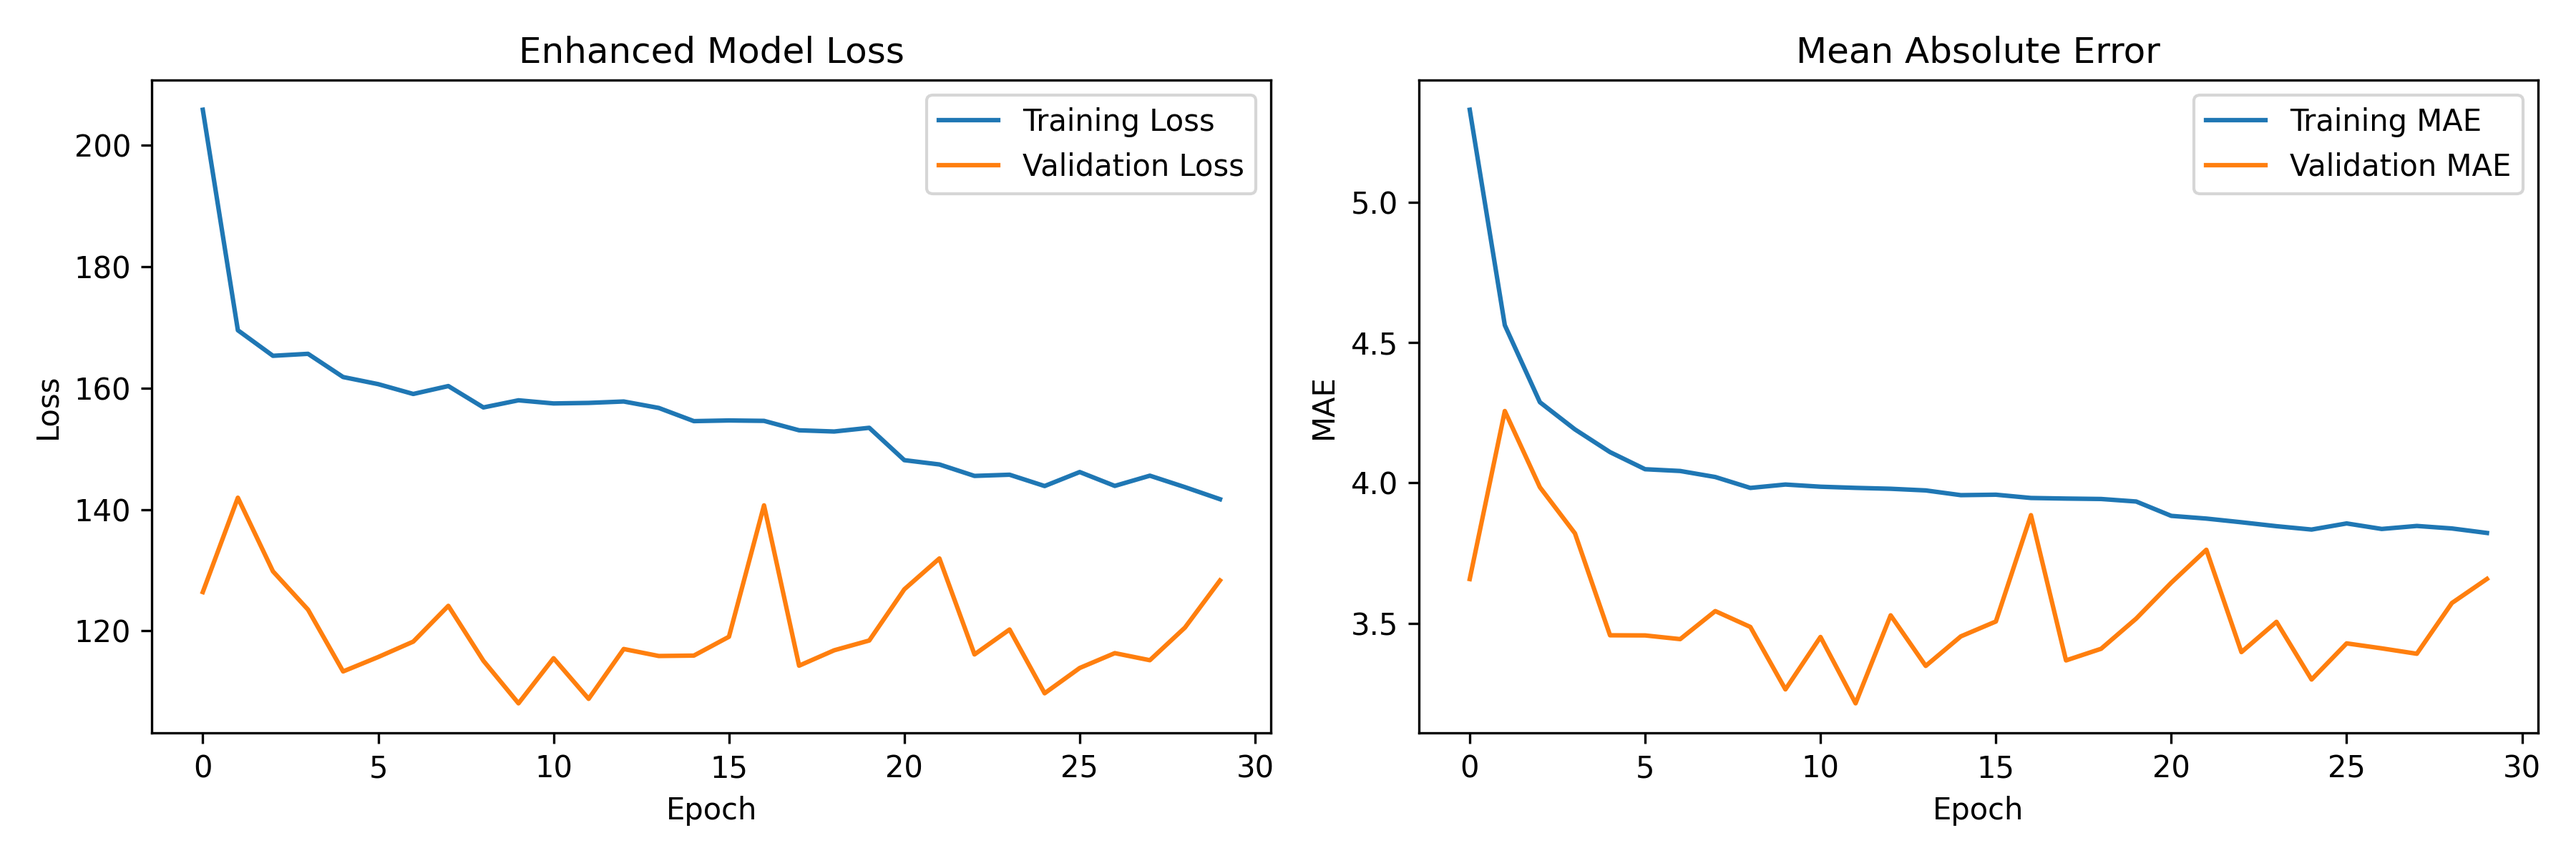
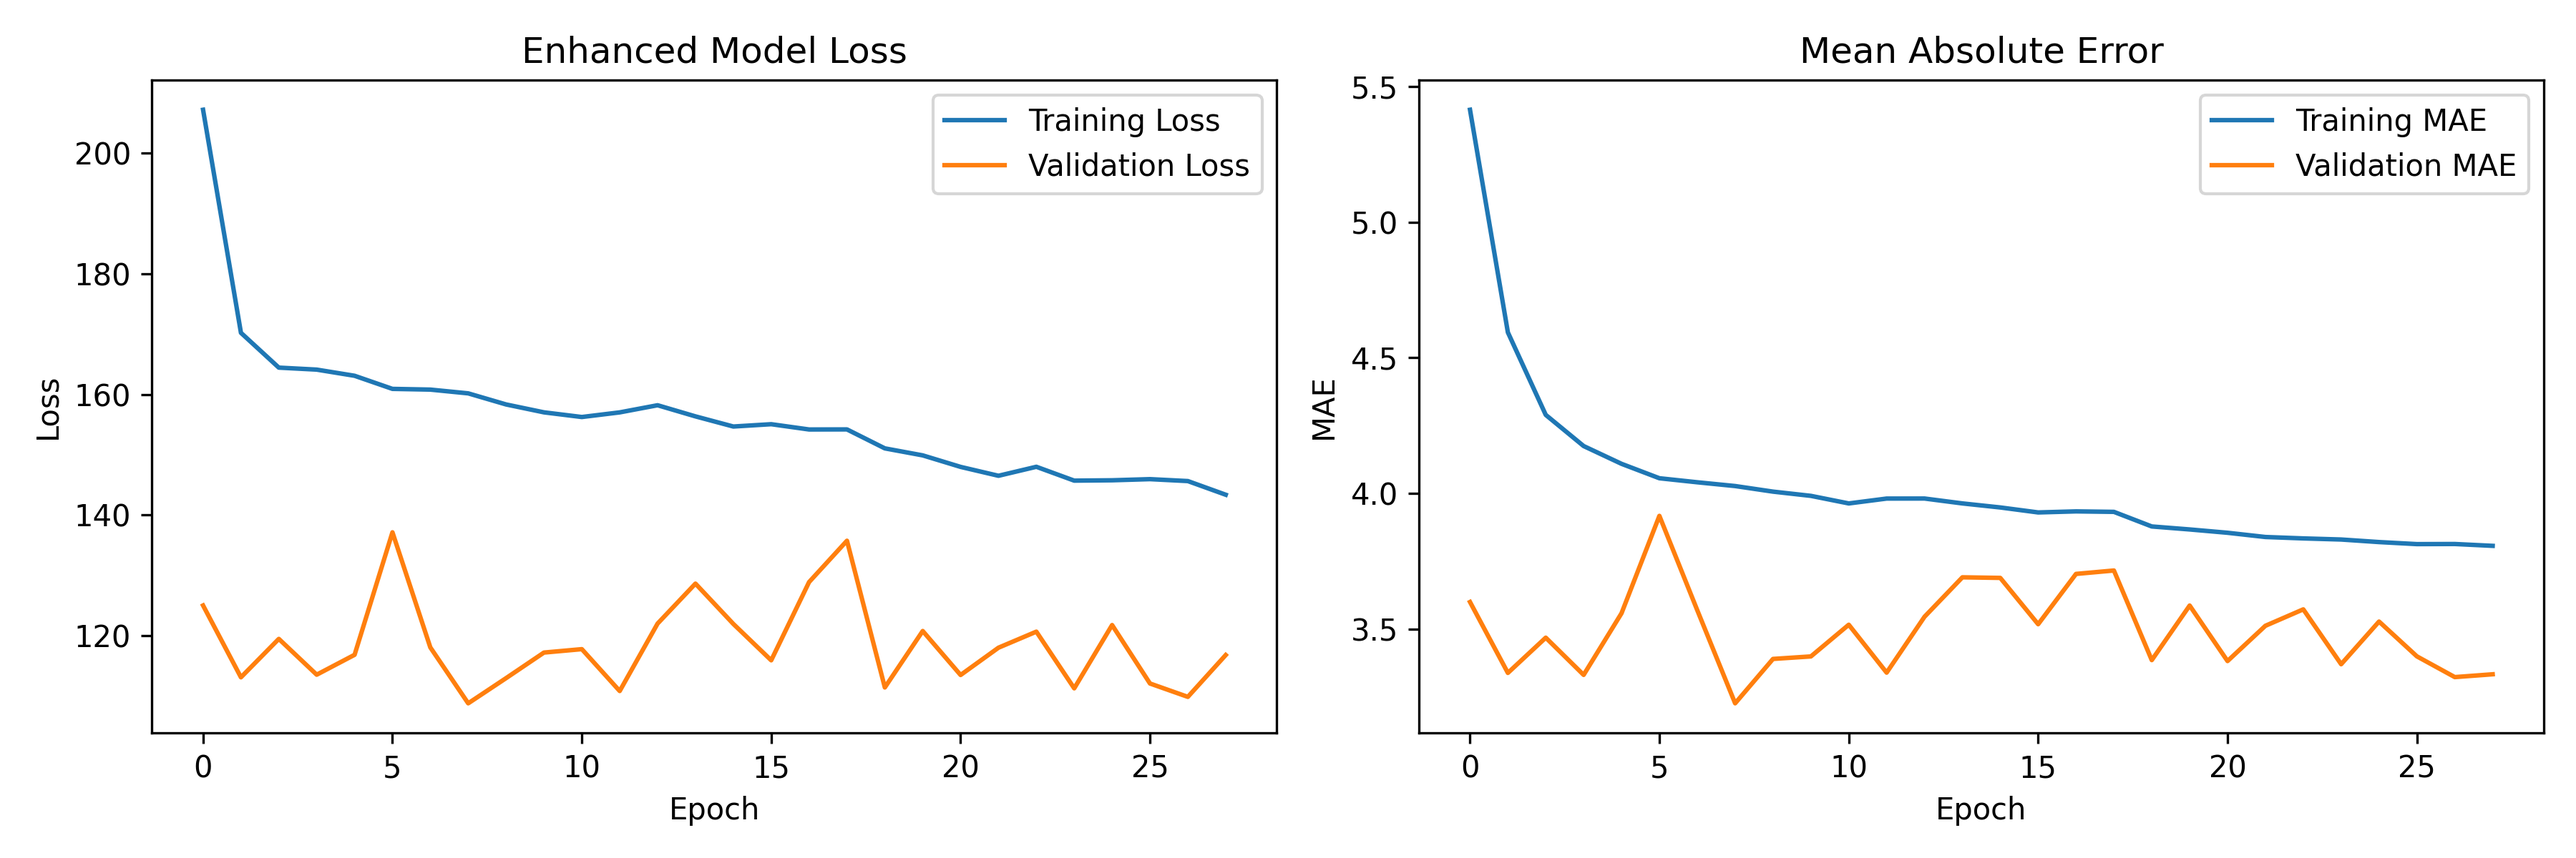
updates

diff --git a/billb/largep/model.py b/billb/largep/model.py
@@ -23,8 +23,17 @@ from injuries import integrate_sportradar_injuries
 # Suppress warnings
 warnings.filterwarnings('ignore')
 
-# Set up logging
-logging.basicConfig(level=logging.INFO, format='%(asctime)s - %(levelname)s - %(message)s')
+# Set up logging with both file and console output
+logging.basicConfig(
+    level=logging.INFO,
+    format='%(asctime)s - %(levelname)s - %(message)s',
+    handlers=[
+        logging.FileHandler('model_debug.log', mode='w'),  # Write to file
+        logging.StreamHandler()  # Also print to console
+    ]
+)
+
+logger = logging.getLogger(__name__)
 
 # Load the enhanced data
 logging.info("Loading enhanced data from CSV...")
@@ -738,21 +747,71 @@ class EnhancedDepthChartAnalyzer:
         return False
 
 # ===== INJURY STATUS ANALYZER WITH SPORTRADAR DATA =====
-
 class InjuryStatusAnalyzer:
     """Analyze player injury status using Sportradar API data"""
     
     def __init__(self, injury_overrides, backup_situations):
         self.injury_overrides = injury_overrides
         self.backup_situations = backup_situations
+        # Create normalized name lookups
+        self._create_normalized_lookups()
+    
+    def _create_normalized_lookups(self):
+        """Create normalized name lookups for better matching"""
+        self.injury_by_normalized = {}
+        for name, info in self.injury_overrides.items():
+            normalized = self._normalize_name(name)
+            self.injury_by_normalized[normalized] = (name, info)
+        
+        self.backup_by_normalized = {}
+        for name, info in self.backup_situations.items():
+            normalized = self._normalize_name(name)
+            self.backup_by_normalized[normalized] = (name, info)
+    
+    def _normalize_name(self, name):
+        """Normalize a name for comparison"""
+        if not name:
+            return ""
+        # Remove suffixes, convert to lowercase, remove extra spaces
+        name_clean = name.lower().strip()
+        # Remove common suffixes
+        for suffix in [' jr.', ' sr.', ' iii', ' ii', ' iv', ' jr', ' sr']:
+            name_clean = name_clean.replace(suffix, '')
+        return ' '.join(name_clean.split())
     
     def check_player_status(self, player_name):
-        """Check if player has injury/status issues"""
+        """Check if player has injury/status issues with fuzzy matching"""
+        # Direct match first
         if player_name in self.injury_overrides:
             return self.injury_overrides[player_name]
         
         if player_name in self.backup_situations:
             return self.backup_situations[player_name]
+        
+        # Try normalized matching
+        normalized = self._normalize_name(player_name)
+        
+        if normalized in self.injury_by_normalized:
+            original_name, info = self.injury_by_normalized[normalized]
+            return info
+        
+        if normalized in self.backup_by_normalized:
+            original_name, info = self.backup_by_normalized[normalized]
+            return info
+        
+        # Try partial matching on last name
+        last_name = normalized.split()[-1] if normalized else ""
+        if last_name and len(last_name) > 3:
+            for norm_key, (orig_name, info) in self.injury_by_normalized.items():
+                if norm_key.endswith(last_name):
+                    # Check first initial matches
+                    if normalized[0] == norm_key[0]:
+                        return info
+            
+            for norm_key, (orig_name, info) in self.backup_by_normalized.items():
+                if norm_key.endswith(last_name):
+                    if normalized[0] == norm_key[0]:
+                        return info
         
         return None
     
@@ -765,7 +824,17 @@ class InjuryStatusAnalyzer:
     
     def should_boost_backup(self, player_name):
         """Determine if backup should get starter-level projections"""
-        return player_name in self.backup_situations
+        status_info = self.check_player_status(player_name)
+        # Check if this player is in backup_situations
+        if player_name in self.backup_situations:
+            return True
+        
+        # Try normalized matching
+        normalized = self._normalize_name(player_name)
+        if normalized in self.backup_by_normalized:
+            return True
+        
+        return False
     
     def get_adjustment_info(self, player_name):
         """Get detailed adjustment information"""
@@ -788,10 +857,33 @@ class InjuryStatusAnalyzer:
             }
         
         return None
-
+    
 # Initialize the injury analyzer with Sportradar data
-print("\n=== INITIALIZING INJURY STATUS ANALYZER ===")
+logger.info("\n=== INITIALIZING INJURY STATUS ANALYZER ===")
 injury_analyzer = InjuryStatusAnalyzer(injury_overrides, backup_situations)
+
+# DEBUG: Verify George Kittle
+logger.info("\n=== DEBUG: GEORGE KITTLE CHECK ===")
+kittle_variations = ['George Kittle', 'G. Kittle', 'Kittle', 'george kittle']
+for name in kittle_variations:
+    status = injury_analyzer.check_player_status(name)
+    should_zero = injury_analyzer.should_zero_out_player(name)
+    logger.info(f"  '{name}': status={status}, should_zero={should_zero}")
+
+# Check what's actually in injury_overrides for TEs
+logger.info("\nAll TEs in injury_overrides:")
+for name, info in injury_overrides.items():
+    if info.get('position') == 'TE':
+        logger.info(f"  '{name}': {info}")
+
+# Check roster data for Kittle
+logger.info("\nChecking roster for George Kittle:")
+kittle_roster = latest_rosters[
+    latest_rosters['player_name'].str.contains('Kittle', case=False, na=False)
+]
+logger.info(f"Found {len(kittle_roster)} matches:")
+for _, row in kittle_roster.iterrows():
+    logger.info(f"  Name: '{row['player_name']}', Status: {row['status']}, Position: {row['position']}, Team: {row.get('team', 'N/A')}")
 
 # Report current injury situations
 if injury_overrides:
@@ -1133,17 +1225,18 @@ def comprehensive_predict_week_enhanced(player_name, week):
     except Exception as e:
         print(f"Error predicting for {player_name}: {e}")
         return None
-
+    
 def get_comprehensive_predictions(position, week):
     """Generate predictions for all players at a position"""
     predictions = []
     
-    active_players = latest_rosters[
-        (latest_rosters['position'] == position) & 
-        (latest_rosters['status'] == 'ACT')
+    # GET ALL PLAYERS, not just active ones - we need to check injuries for everyone
+    all_position_players = latest_rosters[
+        latest_rosters['position'] == position
     ]
     
-    print(f"\nGenerating predictions for {len(active_players)} {position}s...")
+    print(f"\nGenerating predictions for {len(all_position_players)} {position}s...")
+    print(f"  Status breakdown: {all_position_players['status'].value_counts().to_dict()}")
     
     veteran_count = 0
     rookie_count = 0
@@ -1151,14 +1244,36 @@ def get_comprehensive_predictions(position, week):
     backup_elevated_count = 0
     processed_players = set()
     
-    for _, player in tqdm(active_players.iterrows(), 
-                         total=len(active_players), 
+    for _, player in tqdm(all_position_players.iterrows(), 
+                         total=len(all_position_players), 
                          desc=f"Predicting {position}"):
         
         player_name = player['player_name']
         
         if player_name in processed_players:
-            print(f"Skipping duplicate player: {player_name}")
+            continue
+        
+        # CHECK INJURY STATUS BEFORE ANYTHING ELSE
+        if injury_analyzer.should_zero_out_player(player_name):
+            adjustment_info = injury_analyzer.get_adjustment_info(player_name)
+            print(f"INJURED: {player_name} -> 0 points ({adjustment_info['reason']})")
+            
+            processed_players.add(player_name)
+            predictions.append({
+                'player_name': player_name,
+                'position': position,
+                'team': player.get('team', 'Unknown'),
+                'fanduel_fantasy_points': 0.0,
+                'prediction_type': 'injured_out',
+                'injury_status': 'OUT',
+                'injury_reason': adjustment_info['reason'],
+                'role_adjustment': adjustment_info['reason']
+            })
+            injured_count += 1
+            continue
+        
+        # Skip inactive players who are NOT injured (practice squad, etc)
+        if player['status'] != 'ACT' and not injury_analyzer.should_boost_backup(player_name):
             continue
         
         pred = comprehensive_predict_week_enhanced(player_name, week)
@@ -1180,13 +1295,7 @@ def get_comprehensive_predictions(position, week):
         predictions_df = pd.DataFrame(predictions)
         
         print(f"Before duplicate removal: {len(predictions_df)} players")
-        initial_count = len(predictions_df)
-        
         predictions_df = predictions_df.drop_duplicates(subset=['player_name'], keep='first')
-        
-        final_count = len(predictions_df)
-        if initial_count != final_count:
-            print(f"Removed {initial_count - final_count} duplicates")
         
         predictions_df = predictions_df.sort_values('fanduel_fantasy_points', ascending=False)
         predictions_df = predictions_df.reset_index(drop=True)
